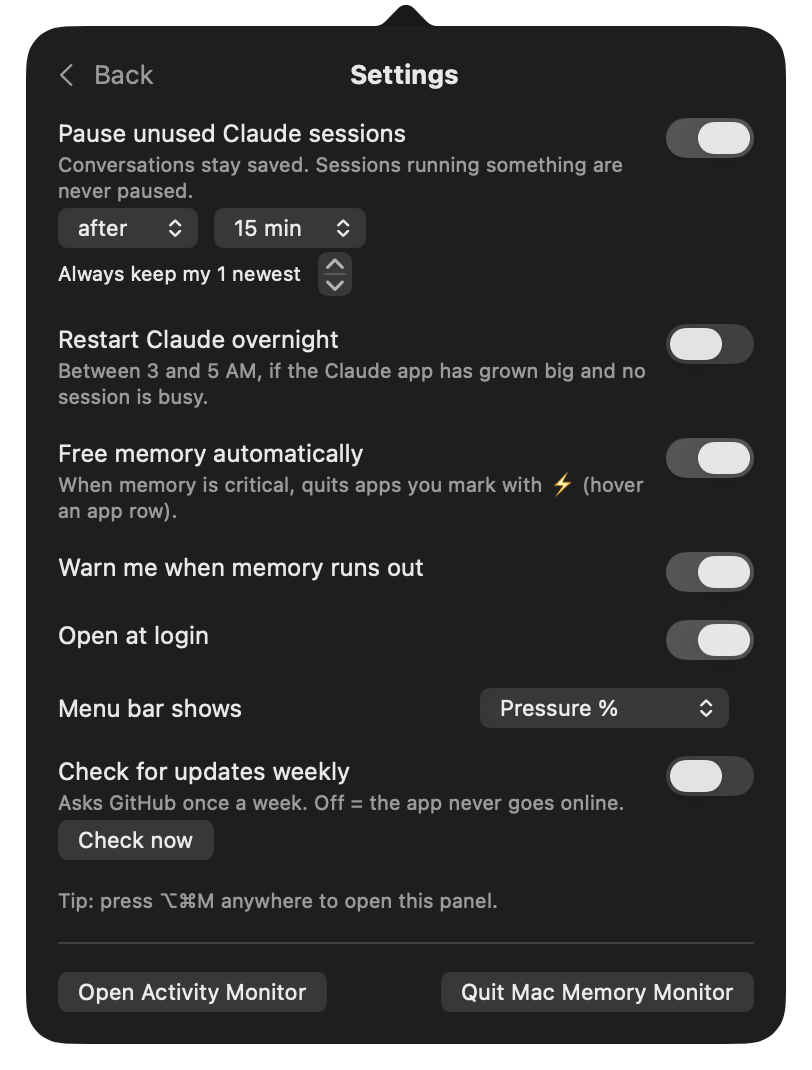
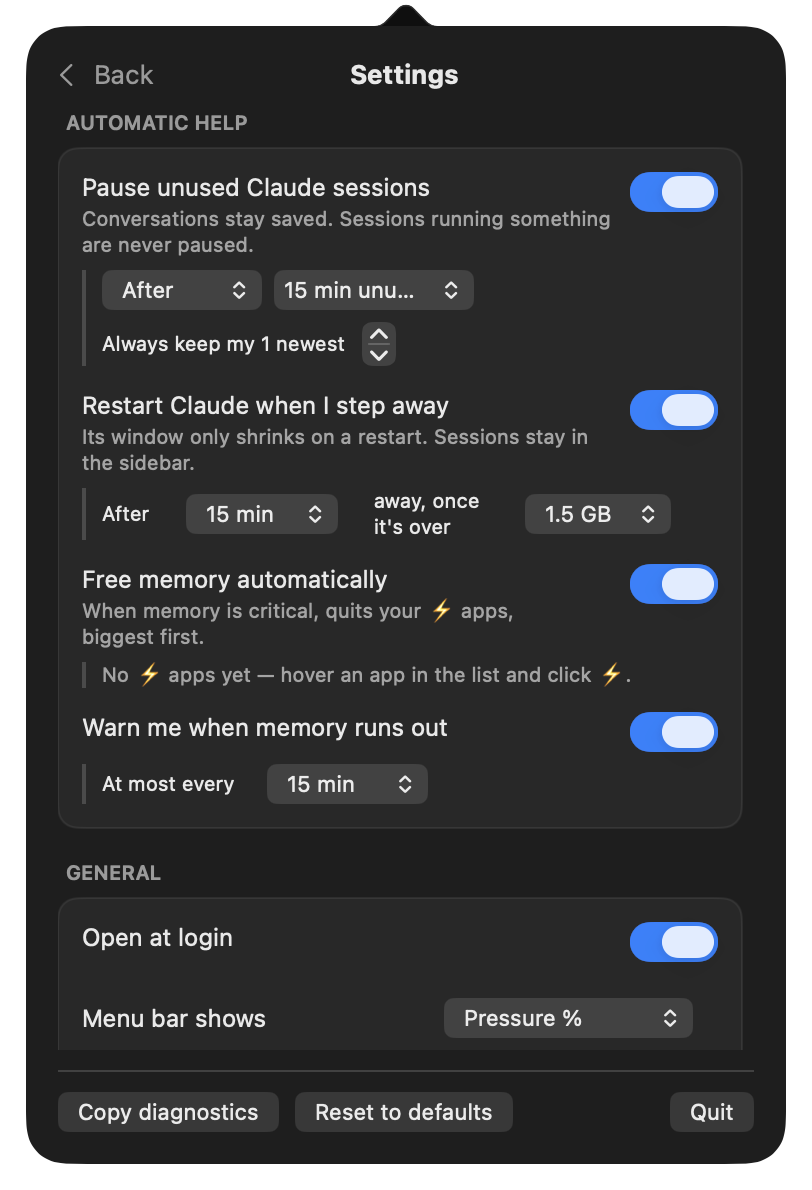
README: easier to read — 4-step install, grouped features, FAQ; fresh screenshots

diff --git a/Sources/MacMonitor/Views.swift b/Sources/MacMonitor/Views.swift
@@ -330,7 +330,7 @@ struct SettingsView: View {
                                 .labelsHidden().frame(width: m.smartPause ? 210 : 80)
                                 if !m.smartPause {
                                     Picker("", selection: $m.autoPauseMinutes) {
-                                        ForEach(Config.autoPauseChoices, id: \.self) { Text("\($0) min unused").tag($0) }
+                                        ForEach(Config.autoPauseChoices, id: \.self) { Text("\($0) min").tag($0) }
                                     }
                                     .labelsHidden().frame(width: 100)
                                 }

diff --git a/README.md b/README.md
@@ -2,79 +2,111 @@
 
 # Mac Memory Monitor
 
-**A lightweight Mac app that sits in the menu bar and shows why your computer is slowing down, then helps you fix it.**
+**A tiny menu bar app that shows why your Mac is lagging — and fixes it in a click.**
 
-<a href="#get-it"><img alt="Install on macOS 14 or newer" src="https://img.shields.io/badge/Install-macOS_14+-24292f?style=for-the-badge"></a>
+<a href="https://github.com/ryan-helou/MacMemoryMonitor/releases/latest"><img alt="Download for macOS 14+" src="https://img.shields.io/badge/Download-macOS_14+-24292f?style=for-the-badge"></a>
 
-<img alt="Uses about_50_MB" src="https://img.shields.io/badge/Uses-about_50_MB-24292f?style=for-the-badge"> <img alt="CPU under_1%25" src="https://img.shields.io/badge/CPU-under_1%25-24292f?style=for-the-badge"> <img alt="Lives_in the_menu_bar" src="https://img.shields.io/badge/Lives_in-the_menu_bar-24292f?style=for-the-badge"> <img alt="Made_for 8_GB_Macs" src="https://img.shields.io/badge/Made_for-8_GB_Macs-24292f?style=for-the-badge">
+<img alt="Uses about 50 MB" src="https://img.shields.io/badge/Uses-about_50_MB-24292f?style=for-the-badge"> <img alt="Free and open source" src="https://img.shields.io/badge/Free-open_source-24292f?style=for-the-badge"> <img alt="Works offline" src="https://img.shields.io/badge/Works-offline-24292f?style=for-the-badge">
+
+<br><br>
+
+<img src="docs/main.png" width="300" alt="The panel: memory pressure, a tip, and the apps using the most memory">
+<img src="docs/history.png" width="300" alt="History: memory over the day with lag periods and what happened">
 
 </div>
 
-<br>
+## Why
 
-When a Mac runs out of memory, it starts borrowing space from the disk, and everything gets sluggish. This app shows how close you are to that point and which apps are using the most memory, counted the same way Apple's Activity Monitor does. I built it for Macs with 8 GB of memory running lots of browser tabs, chat apps and AI coding sessions at once. It runs on macOS 14 or newer and barely uses any memory itself.
+When your Mac runs out of memory, it starts using the disk instead — and everything slows down. That's the lag you feel with lots of Chrome tabs, chat apps and AI coding sessions open.
 
-<p align="center">
-  <img src="docs/main.png" width="300" alt="The panel: memory pressure, a tip, and the apps using the most memory">
-  <img src="docs/history.png" width="300" alt="History: 24 hours of memory with lag periods and events">
-</p>
+Mac Memory Monitor shows how close you are to that point, what's using the memory, and lets you free it in one click. Built for 8 GB Macs, useful on any Mac.
 
-## What you can do with it
+## Install (1 minute)
 
-- See your memory pressure at a glance in the menu bar, as a percentage that turns green, orange or red.
-- See which apps use the most memory, with each app's background helpers grouped under its name.
-- Quit, restart or force-quit a heavy app with one click. Restarting gives back memory an app has slowly piled up.
-- Pause an AI coding session (Claude Code) without losing the conversation, and stop stray background scripts.
-- Automatically pause Claude Code sessions you haven't touched in a while (15 minutes by default). It never pauses a session that's still running something in the background.
-- Get plain tips based on what's open, such as turning on Chrome's Memory Saver, plus a warning when memory runs out.
-- Optionally let it close apps you've marked as safe to close, biggest first, when memory gets critical.
-- See the last 24 hours: when your Mac lagged, which app jumped, and what was paused or quit.
-- Get told when an app's memory keeps climbing (a leak), with a one-click restart.
-- Find big files in Downloads, Movies and developer caches and move them to the Trash.
-- See how many more Claude sessions fit, each session's real title and when you last used it, and which MCP servers load in every session.
-- Act straight from the "out of memory" notification, and press ⌥⌘M anywhere to open the panel.
+1. **[Download the latest version](https://github.com/ryan-helou/MacMemoryMonitor/releases/latest)** and unzip it.
+2. Drag **Mac Memory Monitor** into your **Applications** folder and open it.
+3. macOS will warn that it can't verify the app (it isn't notarized by Apple yet). Click **Done**, then go to **System Settings → Privacy & Security** and click **Open Anyway**. Only needed once.
+4. Look for **● 64%** in your menu bar. Not there? **System Settings → Menu Bar** → turn on **Mac Memory Monitor**.
 
-## Get it
+Works on Apple Silicon and Intel, macOS 14 or newer.
 
-**[⬇ Download the latest version](https://github.com/ryan-helou/MacMemoryMonitor/releases/latest)** (`MacMemoryMonitor-x.y.z.zip`), unzip it and drag **Mac Memory Monitor** into your Applications folder. It works on Apple Silicon and Intel Macs.
-
-The first time you open it, macOS warns that it can't check the app, because it isn't notarized by Apple. Click **Done**, then go to **System Settings → Privacy & Security**, scroll down and click **Open Anyway**. You only need to do this once.
-
-Don't see it in the menu bar? On macOS 26, open **System Settings → Menu Bar** and switch **Mac Memory Monitor** on under **Allow in the Menu Bar**. If your menu bar is very full, it may also be hidden behind the notch or other icons.
-
-### Or with Homebrew
+<details>
+<summary><b>Install with Homebrew</b></summary>
 
 ```bash
 brew trust ryan-helou/tap
 brew install --cask ryan-helou/tap/mac-memory-monitor
 ```
+</details>
 
-### Or build it yourself
+<details>
+<summary><b>Build it yourself</b></summary>
 
-Open the Terminal app and paste these three lines. It builds the app, puts it in your Applications folder and opens it. You need Apple's free developer tools; if they're missing, your Mac will offer to install them.
+You need Apple's free developer tools (your Mac offers to install them if missing).
 
 ```bash
 git clone https://github.com/ryan-helou/MacMemoryMonitor.git
 cd MacMemoryMonitor
 ./build.sh
 ```
+</details>
 
-## Customize it
+## What it does
 
-Every threshold, timing and app list lives in one file, [`Sources/MacMonitor/Config.swift`](Sources/MacMonitor/Config.swift). Examples: when the menu bar turns orange or red, how long before idle Claude sessions are paused, which apps count as "browser engine" apps. Change a value and run `./build.sh` again. Most day-to-day options (auto-pause, auto-free, warnings, open at login) are also switches at the bottom of the panel. See [CONTRIBUTING.md](CONTRIBUTING.md) for a map of the code.
+**See what's slowing you down**
+- Memory pressure in the menu bar — green, orange or red
+- The apps using the most memory, with all their hidden helper processes counted
+- A 24-hour history: when your Mac lagged and which app caused it
 
-## Contributing
+**Fix it in one click**
+- Quit or relaunch any app (relaunching gives back memory an app has slowly built up)
+- Tips for what to do right now, like turning on Chrome's Memory Saver
+- Find big files in Downloads, Movies and developer caches and move them to the Trash
 
-Bug reports, ideas and pull requests are welcome — see [CONTRIBUTING.md](CONTRIBUTING.md) and the [good first issues](https://github.com/ryan-helou/MacMemoryMonitor/labels/good%20first%20issue). Found a bug? Settings → **Copy diagnostics** and paste it into a [new issue](https://github.com/ryan-helou/MacMemoryMonitor/issues/new/choose). Questions go in [Discussions](https://github.com/ryan-helou/MacMemoryMonitor/discussions).
+**Let it handle things for you** (all optional)
+- Warns you when memory is running out — with buttons to fix it in the notification
+- Spots apps whose memory keeps climbing and offers a restart
+- Quits apps you've marked ⚡ when your Mac is about to freeze
 
-## Privacy
+**Made for Claude Code users**
+- Every session grouped with its helper processes, shown by title and when you last used it
+- Pauses sessions you haven't used in a while — the conversation stays saved, and it never pauses one that's still working
+- Restarts the Claude app while you're away (its window grows to 2+ GB over a few days)
 
-It never connects to the internet and collects nothing. Everything it shows is read from your own Mac and stays there.
+Press **⌥⌘M** anywhere to open the panel.
+
+<p align="center"><img src="docs/settings.png" width="300" alt="Settings: options appear under each switch"></p>
+
+## Settings
+
+Everything automatic can be switched off or tuned in **Settings** (gear icon): how long before sessions pause, when to warn you, what the menu bar shows, how sensitive it is, which tips you see, and more. **Reset to defaults** undoes it all.
+
+Developers can change every threshold in one file: [`Sources/MacMonitor/Config.swift`](Sources/MacMonitor/Config.swift).
+
+## FAQ
+
+**Is it safe?** It never quits or stops anything unless you click, or you've switched on an automatic feature. Anything that could lose work asks you to click twice.
+
+**Does it slow my Mac down?** No — it uses about 50 MB and under 1% CPU, and checks less often when you're not looking at it.
+
+**Will pausing a Claude session lose my conversation?** No. It's saved; reopen it from the Claude sidebar.
+
+**Why the "can't verify" warning?** Getting rid of it costs $99/year for an Apple developer account. The app is open source, so you can read every line or build it yourself. [Help with this →](https://github.com/ryan-helou/MacMemoryMonitor/issues/7)
+
+**Does it collect data?** No. It works offline and keeps everything on your Mac. The only time it goes online is the update check, which you can set to Never.
+
+## Help make it better
+
+Bug reports, ideas and code are all welcome.
+
+- **Found a bug?** Settings → **Copy diagnostics**, then [open an issue](https://github.com/ryan-helou/MacMemoryMonitor/issues/new/choose) and paste it (no personal names are included).
+- **Want to help?** Start with a [good first issue](https://github.com/ryan-helou/MacMemoryMonitor/labels/good%20first%20issue) and read [CONTRIBUTING.md](CONTRIBUTING.md).
+- **Questions or tips?** Head to [Discussions](https://github.com/ryan-helou/MacMemoryMonitor/discussions).
 
 ## Uninstall
 
-Quit it from its panel (**Quit Mac Memory Monitor**) and drag **Mac Memory Monitor** from Applications to the Trash.
+Open **Settings → Quit**, then drag **Mac Memory Monitor** from Applications to the Trash.
 
 ## License
 
-MIT. Use it, change it and share it freely.
+MIT — free to use, change and share. See [CHANGELOG.md](CHANGELOG.md) for what's new.
